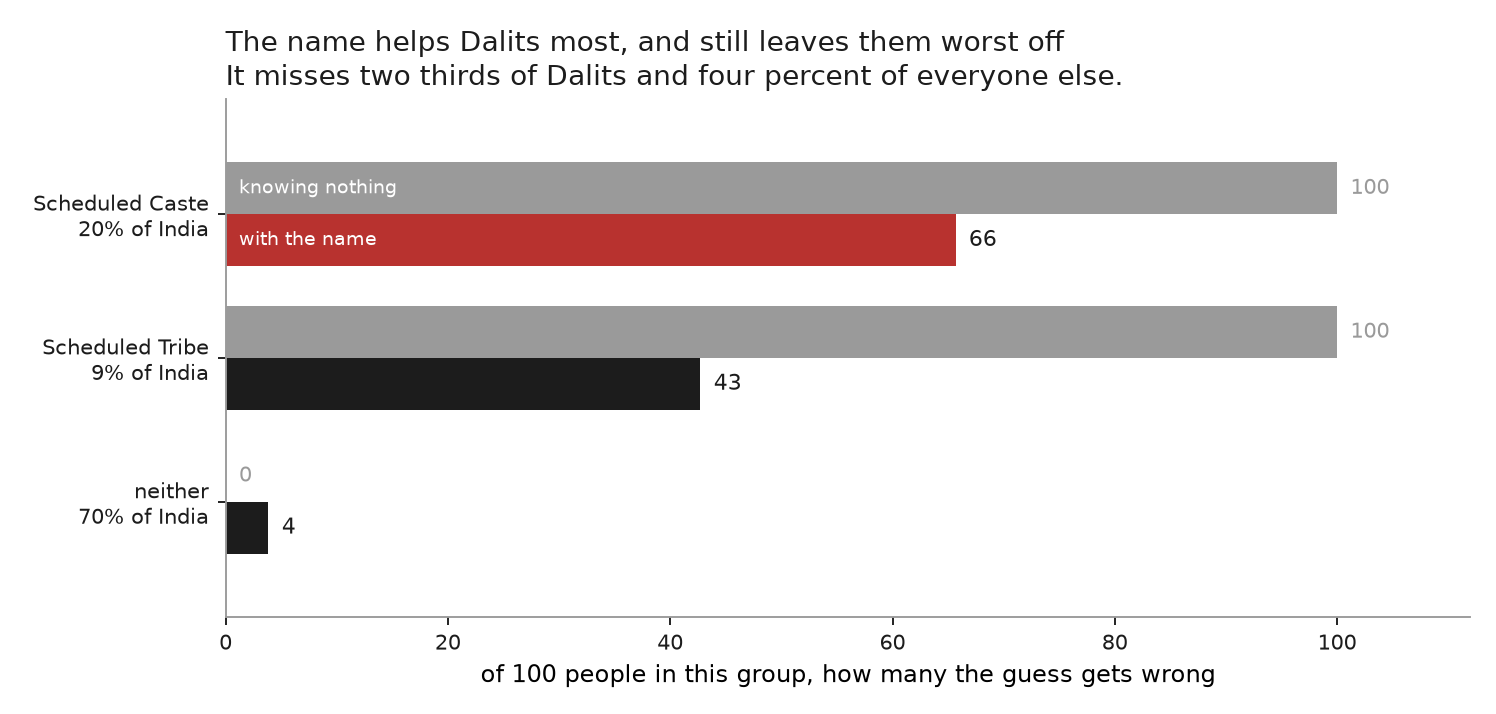
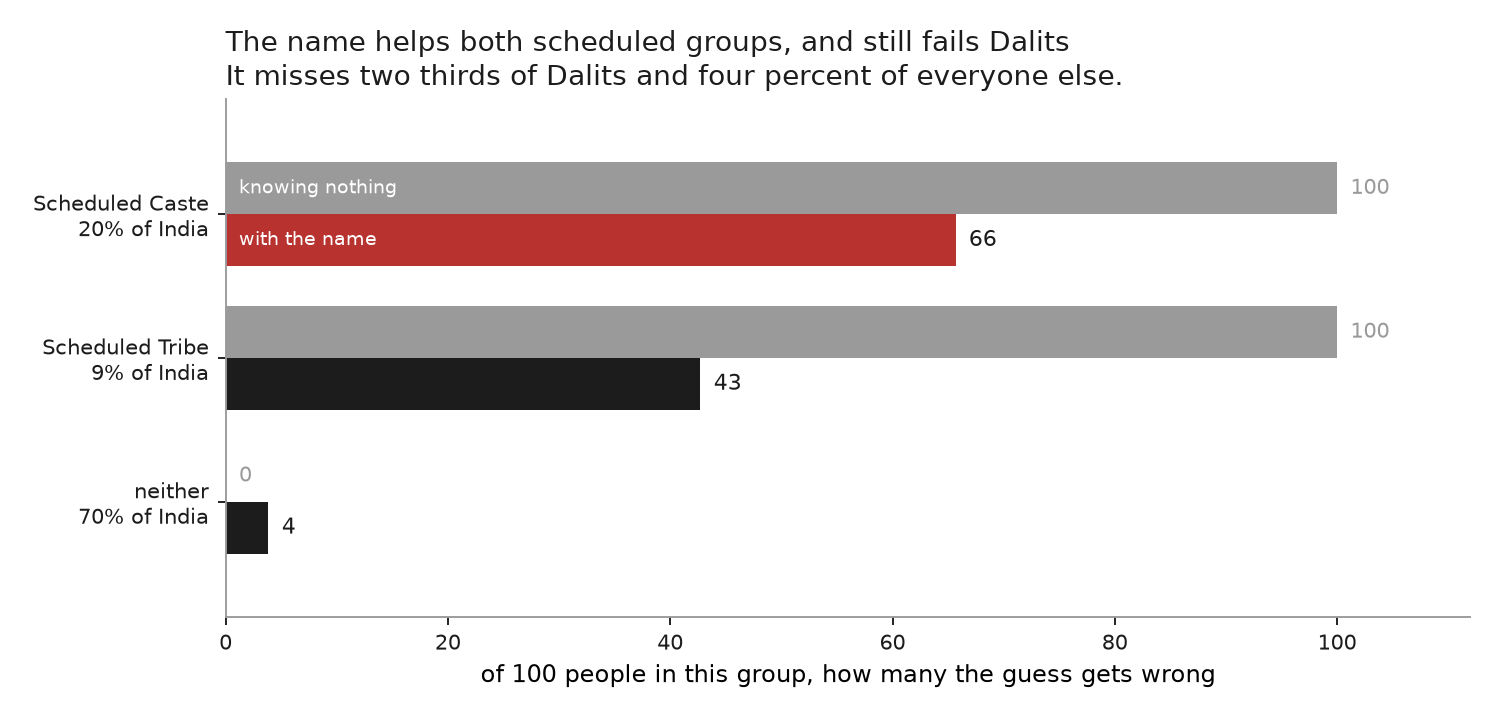
Fix three defects found reviewing the 1.0.1 diff
**"The name helps Dalits most" is false and I published it in four places.**
Both scheduled groups start at 100 wrong, so the larger gain belongs to whoever
ends lower, and that is Scheduled Tribe: 100 to 43, against 100 to 66 for
Scheduled Caste. The table I wrote the sentence from said so. The claim is gone
from the figure title, the note, the front page, this changelog and analysis
05's own README, replaced by the part that does hold -- a large gain that still
leaves Dalits worst off. A test now asserts the ordering, since the error
survived a green suite and four documents.

**A missing Upnaam artifact killed note rendering.** `pipeline.py` deliberately
skips a state whose parquet is absent and writes a partial
`surname_resolution.csv`; `_share` then did an unconditional `.loc` and raised
`KeyError`. Verified by dropping Maharashtra's row: before, the traceback;
after, the note renders and prints "not available". Coverage that cannot be
computed now says so instead of being interpolated as a number.

**66% was labelled as resolution.** It is the gendered share. Maharashtra
resolves a surname for 98% of its roll, genders one for 66%, and lands at 36%
after the caste-table merge. The note now names all three steps rather than
calling the middle one "resolution alone".

Found by `codex exec review --base v1.0.0`.

Changed region(s): [[0.3075, 0.0308, 0.7072, 0.0924]]

diff --git a/analyses/05_who_has_an_uninformative_name/note.py b/analyses/05_who_has_an_uninformative_name/note.py
@@ -55,6 +55,7 @@ def main() -> None:
     caste = pd.read_csv(TAB / "by_caste.csv")
     sc = caste[caste.caste == "Scheduled Caste"].iloc[0]
     other = caste[caste.caste == "neither"].iloc[0]
+    st = caste[caste.caste == "Scheduled Tribe"].iloc[0]
     overall = float((caste["share_of_people"] * caste["wrong_per_100"]).sum())
     resolution = (
         pd.read_csv(TAB / "surname_resolution.csv").set_index("state")
@@ -62,13 +63,17 @@ def main() -> None:
         else None
     )
 
-    def _share(state: str, col: str = "analytic_share") -> float:
-        return 0.0 if resolution is None else 100 * float(resolution.loc[state, col])
+    def _share(state: str, col: str = "analytic_share") -> str:
+        """Rendered coverage, or "not available" when the state was skipped."""
+        if resolution is None or state not in resolution.index:
+            return "not available"
+        return f"{100 * float(resolution.loc[state, col]):.0f}%"
 
     bihar_share = _share("bihar")
     maharashtra_share = _share("maharashtra")
     rajasthan_share = _share("rajasthan")
     maharashtra_gendered = _share("maharashtra", "gendered_share")
+    maharashtra_resolved = _share("maharashtra", "resolved_share")
     blind_overall = float(
         (caste["share_of_people"] * caste["blind_wrong_per_100"]).sum()
     )
@@ -133,12 +138,13 @@ come to {blind_overall:.0f} and {overall:.0f}, the mistakes per hundred a blind
 guess and a name-based guess make across everybody. This is one estimator split
 by who it is applied to, not a new one.
 
-Note what the table does **not** say. The name is not useless for Dalits: it is
-the group it helps most, taking them from wrong about all of them to wrong about
-{sc.wrong_per_100:.0f} in a hundred. It helps people outside the schedules not
-at all, and in fact costs them {-other_gain:.0f} per hundred, because knowing
-nothing already had them right. The trouble is that helping Dalits most still
-leaves them far and away the worst served.
+Note what the table does **not** say. The name is not useless for Dalits: it
+takes them from wrong about all of them to wrong about {sc.wrong_per_100:.0f} in
+a hundred. It does more for Adivasis, {st.blind_wrong_per_100:.0f} down to
+{st.wrong_per_100:.0f}. It does nothing for people outside the schedules and in
+fact costs them {-other_gain:.0f} per hundred, because knowing nothing already
+had them right. The trouble is that a large gain still leaves Dalits far and
+away the worst served.
 
 The last column is a different quantity and is kept because it is the one the
 mistake is easy to make with. It is how vague the names a group carries are --
@@ -192,12 +198,13 @@ error understates the error made on Dalits by about
   supported by Upnaam's `resolver-v1` and present locally. It uses Upnaam's
   recorded surname, not a resolved family surname.
 - **The sex split needs a given name naampy can gender, and a surname the caste
-  table knows.** After both, the estimates rest on {bihar_share:.0f}% of the
-  Bihar roll, {maharashtra_share:.0f}% of the Maharashtra roll and
-  {rajasthan_share:.0f}% of the Rajasthan roll. Resolution alone looks healthier
-  -- {maharashtra_gendered:.0f}% for Maharashtra -- but a surname that is
-  gendered and then has no caste row never reaches the estimate. Bihar is the
-  only one of the three built on most of a state.
+  table knows.** After both, the estimates rest on {bihar_share} of the Bihar
+  roll, {maharashtra_share} of the Maharashtra roll and {rajasthan_share} of the
+  Rajasthan roll. Each earlier step looks healthier: Maharashtra resolves a
+  surname for {maharashtra_resolved} of its roll and genders one for
+  {maharashtra_gendered}, but a surname that is gendered and then has no caste
+  row never reaches the estimate. Bihar is the only one of the three built on
+  most of a state.
 - **Nothing here is per-name.** The tables report groups, never a ranked list of
   which names give which people away.
 

diff --git a/tests/test_who_has_an_uninformative_name.py b/tests/test_who_has_an_uninformative_name.py
@@ -123,3 +123,16 @@ def test_the_recall_split_reconstructs_the_headline_error():
     # And the two quantities must stay distinguishable, or the mistake is back.
     sc = by_caste["Scheduled Caste"]
     assert sc["wrong_per_100"] > 2 * sc["name_vagueness_per_100"]
+
+
+def test_no_group_is_claimed_to_gain_most_without_checking(caste):
+    """A published claim said the name helps Dalits most. It helps Adivasis more.
+
+    Both scheduled groups start at 100 wrong, so the one that ends lower gains
+    more, and that is Scheduled Tribe. Guarding it because the error survived a
+    green suite, a figure, a note and two READMEs.
+    """
+    gain = caste["blind_wrong_per_100"] - caste["wrong_per_100"]
+    assert gain["Scheduled Tribe"] > gain["Scheduled Caste"]
+    # And the point that does hold: biggest gain, still worst outcome.
+    assert caste.loc["Scheduled Caste", "wrong_per_100"] == caste["wrong_per_100"].max()

diff --git a/analyses/05_who_has_an_uninformative_name/figures.py b/analyses/05_who_has_an_uninformative_name/figures.py
@@ -78,7 +78,7 @@ def by_caste(table: pd.DataFrame, out: Path) -> None:
     ax.set_ylim(-0.8, len(d) - 0.2)
     ax.set_xlabel("of 100 people in this group, how many the guess gets wrong")
     ax.set_title(
-        "The name helps Dalits most, and still leaves them worst off\n"
+        "The name helps both scheduled groups, and still fails Dalits\n"
         "It misses two thirds of Dalits and four percent of everyone else.",
         color=INK,
         loc="left",

diff --git a/analyses/05_who_has_an_uninformative_name/note.md b/analyses/05_who_has_an_uninformative_name/note.md
@@ -33,12 +33,12 @@ away. Weight the two middle columns by the shares beside them and they come to
 across everybody. This is one estimator split by who it is applied to, not a new
 one.
 
-Note what the table does **not** say. The name is not useless for Dalits: it is
-the group it helps most, taking them from wrong about all of them to wrong about
-66 in a hundred. It helps people outside the schedules not at all, and in fact
-costs them 4 per hundred, because knowing nothing already had them right. The
-trouble is that helping Dalits most still leaves them far and away the worst
-served.
+Note what the table does **not** say. The name is not useless for Dalits: it
+takes them from wrong about all of them to wrong about 66 in a hundred. It does
+more for Adivasis, 100 down to 43. It does nothing for people outside the
+schedules and in fact costs them 4 per hundred, because knowing nothing already
+had them right. The trouble is that a large gain still leaves Dalits far and
+away the worst served.
 
 The last column is a different quantity and is kept because it is the one the
 mistake is easy to make with. It is how vague the names a group carries are --
@@ -95,10 +95,11 @@ error made on Dalits by about 62 mistakes per hundred.
   recorded surname, not a resolved family surname.
 - **The sex split needs a given name naampy can gender, and a surname the caste
   table knows.** After both, the estimates rest on 57% of the Bihar roll, 36% of
-  the Maharashtra roll and 20% of the Rajasthan roll. Resolution alone looks
-  healthier -- 66% for Maharashtra -- but a surname that is gendered and then
-  has no caste row never reaches the estimate. Bihar is the only one of the
-  three built on most of a state.
+  the Maharashtra roll and 20% of the Rajasthan roll. Each earlier step looks
+  healthier: Maharashtra resolves a surname for 98% of its roll and genders one
+  for 66%, but a surname that is gendered and then has no caste row never
+  reaches the estimate. Bihar is the only one of the three built on most of a
+  state.
 - **Nothing here is per-name.** The tables report groups, never a ranked list of
   which names give which people away.
 

diff --git a/README.md b/README.md
@@ -90,9 +90,10 @@ every 100 people outside the schedules**, a seventeen-fold gap. Those weight up
 to the 20 mistakes per hundred it makes across everybody, so this is one guess
 split by who it lands on, not a second estimator.
 
-The name is not useless for Dalits — it is the group it helps most, taking them
-from wrong about all of them to wrong about 66 in a hundred. But helping them
-most still leaves them far and away the worst served, and that is what matters
+The name is not useless for Dalits — it takes them from wrong about all of them
+to wrong about 66 in a hundred, and it does more still for Adivasis, 100 down to
+43. But a large gain still leaves Dalits far and away the worst served, and that
+is what matters
 for anyone building on it: a name-based method misses two thirds of the people
 it is usually deployed to find. Use it to test whether Dalits get fewer
 callbacks and two thirds of the real Dalits sit in your comparison group, on

diff --git a/analyses/05_who_has_an_uninformative_name/README.md b/analyses/05_who_has_an_uninformative_name/README.md
@@ -10,10 +10,10 @@ to the 20 mistakes per hundred it makes overall. Any method inferring caste from
 an Indian surname misses most Scheduled Caste individuals while classifying
 nearly everyone else correctly.
 
-Note what that does *not* say. The name is not useless for Dalits: it is the
-group it helps most, from wrong about all of them to wrong about 66 in a
-hundred. It still leaves them far and away the worst served, which is the part
-that matters downstream.
+Note what that does *not* say. The name is not useless for Dalits: it takes
+them from wrong about all of them to wrong about 66 in a hundred, and does more
+still for Adivasis. It nonetheless leaves Dalits far and away the worst served,
+which is the part that matters downstream.
 
 **And a null.** The obvious companion prediction — that women fare worse, since
 a woman in the Hindi belt is often recorded under a sex-marking name — does not

diff --git a/CHANGELOG.md b/CHANGELOG.md
@@ -21,9 +21,9 @@ One wrong sentence in the most citable claim, and the reversal it forces.
   Dalits and 4 of every 100 people outside the schedules, and those weight up to
   the 20-per-hundred headline exactly.
 
-  This reverses part of the old claim. The name is not useless for Dalits: it is
-  the group it helps most, taking them from wrong about all of them to wrong
-  about 66 in a hundred. What survives, and is stronger, is the disparity --
+  This reverses part of the old claim. The name is not useless for Dalits: it
+  takes them from wrong about all of them to wrong about 66 in a hundred, and it
+  does more still for Adivasis. What survives, and is stronger, is the disparity --
   seventeen-fold -- and the consequence for audits, which now rests on the right
   mechanism: two thirds of Dalits land in the comparison group.
 
